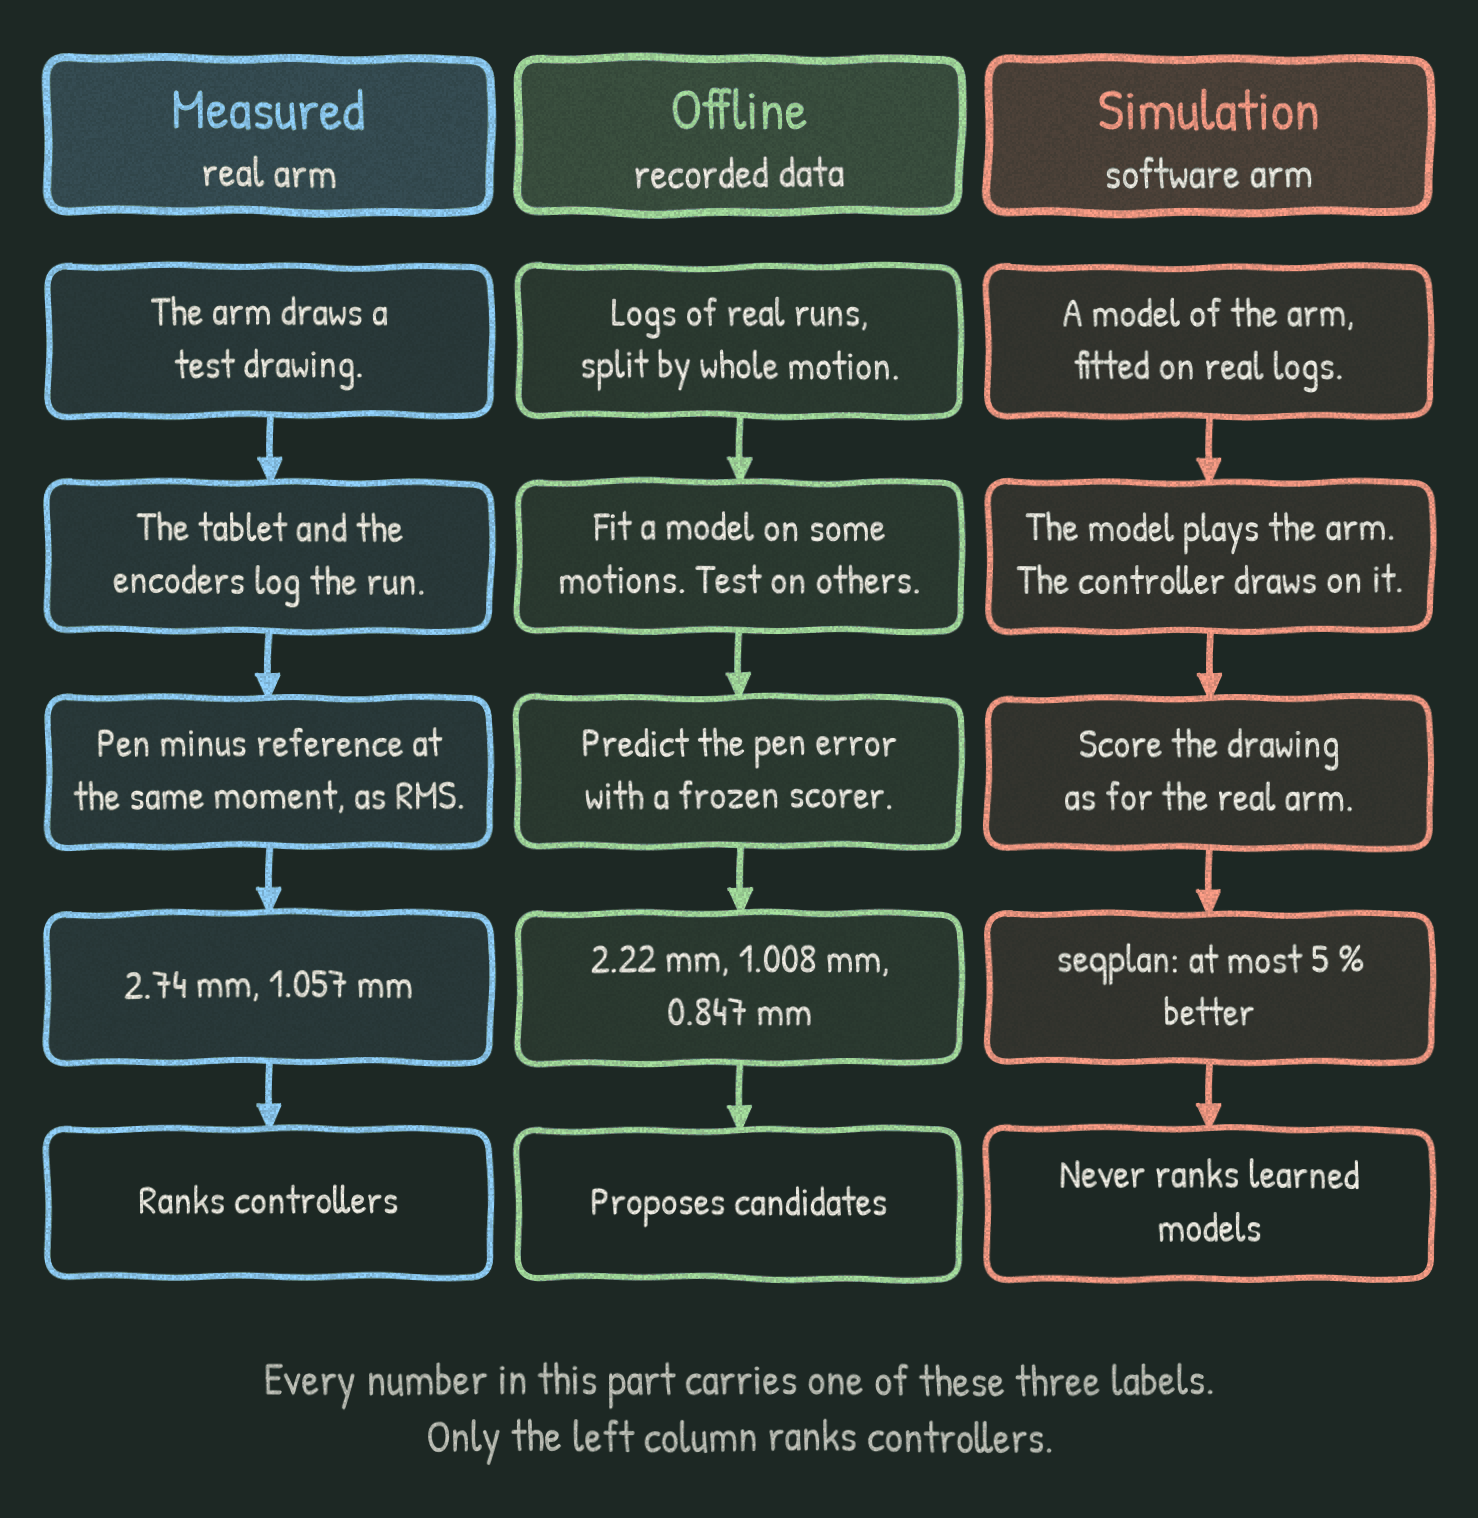
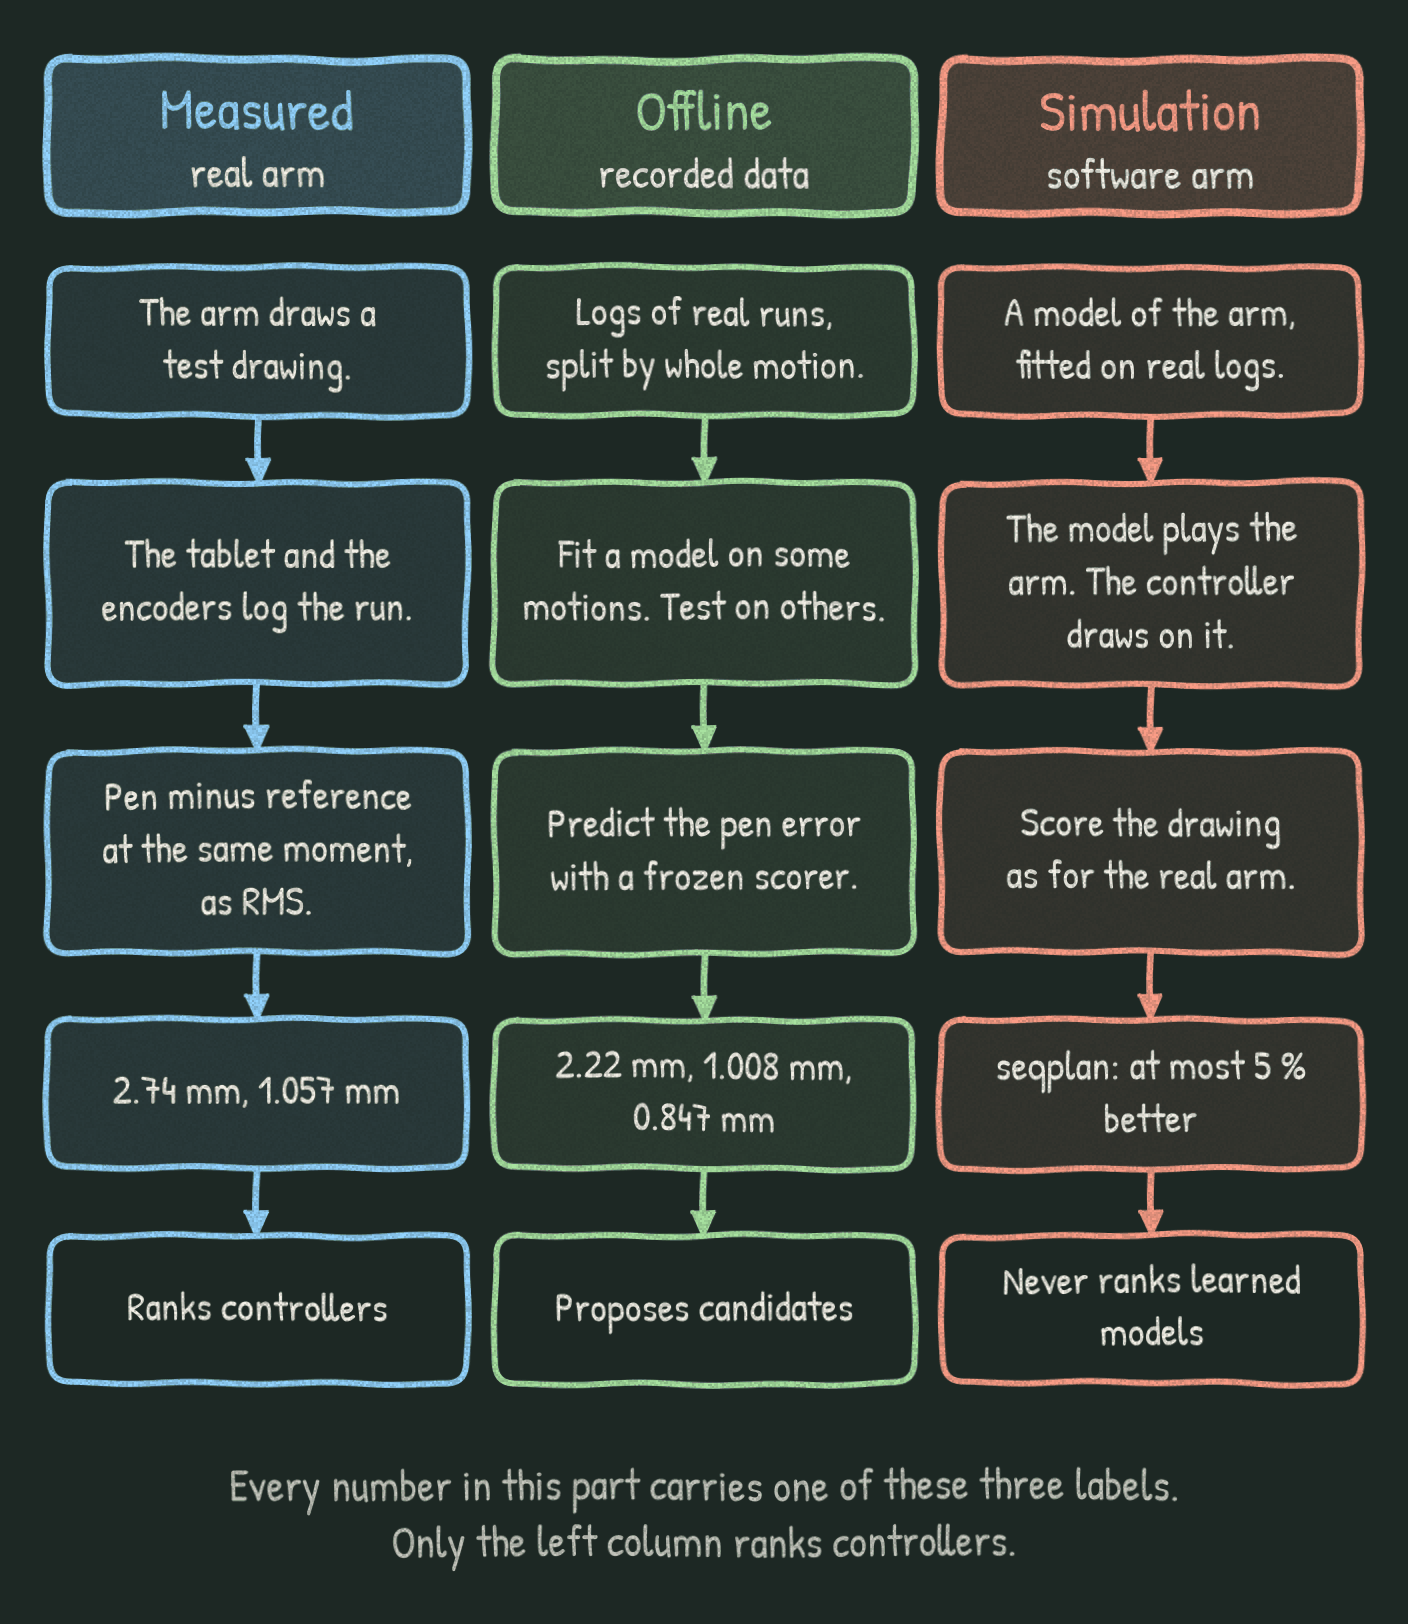
Fix overlaps and small text in seven part 6 figures
From the independent check: bar labels clear the axis line, the group
headings read as headings again, the pan axis no longer crosses its label,
the Kalman subscripts are larger, and the four diagrams are 6.4 in wide so
their text keeps its size on a phone.

Changed region(s): [[0.0312, 0.031, 1.0, 0.8669], [0.1562, 0.8979, 0.8438, 0.9598]]

diff --git a/scripts/so101_controllers_figures.py b/scripts/so101_controllers_figures.py
@@ -156,6 +156,11 @@ def wrap(text, size, width_in):
     return lines
 
 
+# Board width for the diagrams. chalk.save() crops to the board and adds a 0.16 in margin on each side, so a 6.08 in
+# board gives a 6.4 in (1408 px) image.
+BOARD_W = 6.08
+
+
 class Board:
     """A figure with one axes in points: x to the right, y down, (0, 0) at the top left."""
 
@@ -650,15 +655,20 @@ def fig_nib_error_vs_speed(src):
 # Value charts (redraw). Every value comes from figs.py of the light figures.
 
 
-def bar_rows(ax, rows, xmax, value_pad, label_size=14.5, value_size=14.5, header_size=15.0):
-    """Horizontal bars with the label above each bar. rows: (label, value, color, value text) or (header, None, ...)."""
+def bar_rows(ax, rows, xmax, value_pad, label_size=14.5, value_size=14.5, header_size=16.5):
+    """Horizontal bars with the label above each bar. rows: (label, value, color, value text) or (header, None, ...).
+
+    A group header was bold in figs.py. The hand font has no bold, so a header is yellow and larger than a label.
+    Labels and headers start 6 pt right of the axis line."""
     y = 0.0
     for name, v, col, txt in rows:
         if v is None:
-            ax.text(0.0, y + 0.35, name, ha="left", va="baseline", fontsize=header_size, color=C_INK)
+            ax.annotate(name, (0.0, y + 0.35), xytext=(6, 0), textcoords="offset points", ha="left", va="baseline",
+                        fontsize=header_size, color=chalk.YELLOW)
             y += 0.85
             continue
-        ax.text(xmax * 0.004, y + 0.28, name, ha="left", va="baseline", fontsize=label_size, color=C_INK2)
+        ax.annotate(name, (0.0, y + 0.28), xytext=(6, 0), textcoords="offset points", ha="left", va="baseline",
+                    fontsize=label_size, color=C_INK2)
         ax.barh(y + 0.62, v, color=col, height=0.5)
         ax.text(v + value_pad, y + 0.62, txt, va="center", fontsize=value_size, color=C_INK)
         y += 1.18
@@ -759,7 +769,7 @@ def fig_arm_pan_lever():
         a.add_patch(Circle(p, 12, fc=chalk.BOARD, ec=c, lw=3))
     a.annotate("", xy=(15, 95), xytext=(333, 95), arrowprops=dict(arrowstyle="<->", color=C_ORANGE, lw=2))
     a.text(178, 66, "R: pan axis to pen", color=C_ORANGE, ha="center", fontsize=14)
-    a.plot([15, 15], [-5, 430], color=C_ORANGE, lw=1.6, ls="--")
+    a.plot([15, 15], [-5, 408], color=C_ORANGE, lw=1.6, ls="--")   # armfig.py: to 430; stopped under the words
     a.annotate("", xy=(60, 400), xytext=(-30, 400),
                arrowprops=dict(arrowstyle="->", color=C_ORANGE, lw=2.5, connectionstyle="arc3,rad=-0.4"))
     a.text(15, 418, "shoulder pan:\nturns the whole arm\nabout a vertical axis", color=C_ORANGE, ha="center", va="bottom", fontsize=16)
@@ -798,9 +808,9 @@ def fig_arm_pan_lever():
 
 def fig_system():
     """sysdiagram.py. Same boxes, arrows and words; text sizes for a phone."""
-    B = Board()
-    L, LW = 38.0, 228.0            # main column
-    RX, RW = 292.0, 132.0          # right column
+    B = Board(width_in=BOARD_W)
+    L, LW = 42.0, 210.0            # main column
+    RX, RW = 274.0, 134.0          # right column
     GAP = 26.0
     ref = B.box(L, 12, LW, "Reference drawing", ["a path in tablet millimeters"], C_BLUE)
     ik = B.box(L, ref["bottom"] + GAP, LW, "Inverse kinematics", ["joint path q*(t) for the five joints"], C_BLUE)
@@ -854,9 +864,9 @@ def fig_system():
 
 def fig_head_schematic():
     """headdiagram.py."""
-    B = Board()
-    L, LW = 38.0, 232.0
-    RX, RW = 300.0, 152.0
+    B = Board(width_in=BOARD_W)
+    L, LW = 38.0, 220.0
+    RX, RW = 282.0, 148.0
     p1 = B.box(L, 12, LW, "Planned joint path q*(t)", ["from the drawing, five joints"], C_BLUE)
     feat = B.box(L, p1["bottom"] + 30, LW, "Features of the path",
                  ["for each joint: sin, cos, angle,", "speed, acceleration, saturated speed", "30 numbers + 1 constant"], C_BLUE)
@@ -888,7 +898,7 @@ def fig_head_schematic():
 
 def fig_numbers():
     """provdiagram.py: three columns, one for each label of a number."""
-    B = Board()
+    B = Board(width_in=BOARD_W)
     # The line breaks of provdiagram.py; a line that is too wide for a phone column is wrapped again.
     cols = [("Measured", "real arm", C_BLUE,
              [["The arm draws a", "test drawing."], ["The tablet and the", "encoders log the run."],
@@ -908,8 +918,24 @@ def fig_numbers():
         B.text(x + cw / 2, 31, name, 19, col, ha="center")
         B.text(x + cw / 2, 50, sub, 14, C_INK, ha="center")
     y = 76.0
+    def cell_lines(lines, width):
+        """The provdiagram.py line breaks if every line fits. Else the cell text wrapped again with even line lengths
+        (the narrowest width that keeps the same number of lines), so no word is left alone on a line."""
+        if all(B.width(line, size) <= width for line in lines):
+            return lines
+        text = " ".join(lines)
+        best = B.wrap(text, size, width)
+        w = width
+        while w > 40:
+            w -= 2
+            trial = B.wrap(text, size, w)
+            if len(trial) > len(best):
+                break
+            best = trial
+        return best
+
     for r in range(5):
-        wrapped = [sum((B.wrap(line, size, cw - 2 * pad) for line in c[3][r]), []) for c in cols]
+        wrapped = [cell_lines(c[3][r], cw - 2 * pad) for c in cols]
         n = max(len(w) for w in wrapped)
         h = 2 * pad + n * size * 1.28 + 4
         for x, (name, sub, col, _), lines in zip(xs, cols, wrapped):
@@ -926,20 +952,34 @@ def fig_numbers():
 
 def fig_kalman_intuition():
     """kalman.html: the shape of the update, the RLS head and the EKF, with the same color for each role."""
-    B = Board()
+    B = Board(width_in=BOARD_W)
     X0, X1 = 6.0, B.W - 6.0
     eq_size, body = 21.0, 14.5
     blue, gray, org, grn, pur, ink = C_BLUE, C_INK2, C_ORANGE, C_AQUA, C_PURPLE, C_INK
+    # Subscript words (new, old, encoder, model) are plain text at 0.8 of the equation size, larger than the mathtext
+    # subscripts (0.7), so that they are at least as large as the body text on a phone.
+    sub_scale, sub_drop = 0.8, 0.26
+
+    def sub_kern(word):
+        """Gap (pt) before a subscript word. The hand-font "n" has a wide left side, so "new" starts closer."""
+        return -0.3 if word.startswith("n") else 1.0
 
     def row(segs, y, size=eq_size, center=True):
-        """One equation line of colored segments. A segment is (mathtext, color) or ("frac", num, den)."""
+        """One equation line of colored segments: (mathtext, color, gap), ("sub", mathtext, subscript, color, gap)
+        or ("frac", num, den, gap)."""
         def seg_w(s):
             if s[0] == "frac":
                 return max(sum(B.width(t, size) for t, _ in s[1]), sum(B.width(t, size) for t, _ in s[2])) + 6
+            if s[0] == "sub":
+                return B.width(s[1], size) + sub_kern(s[2]) + B.width(s[2], size * sub_scale)
             return B.width(s[0], size)
 
+        def seg_gap(s):
+            n = {"frac": 3, "sub": 4}.get(s[0], 2)
+            return s[n] if len(s) > n else 0.0
+
         widths = [seg_w(s) for s in segs]
-        gaps = [(s[3] if len(s) > 3 else 0.0) if s[0] == "frac" else (s[2] if len(s) > 2 else 0.0) for s in segs]
+        gaps = [seg_gap(s) for s in segs]
         total = sum(widths) + sum(gaps)
         x = (X0 + X1 - total) / 2 if center else X0 + 14
         placed = []
@@ -957,6 +997,9 @@ def fig_kalman_intuition():
                 for t, c in s[2]:
                     B.text(xx, yb + size * 1.0, t, size, c)
                     xx += B.width(t, size)
+            elif s[0] == "sub":
+                B.text(x, y, s[1], size, s[3])
+                B.text(x + B.width(s[1], size) + sub_kern(s[2]), y + size * sub_drop, s[2], size * sub_scale, s[3])
             else:
                 B.text(x, y, s[0], size, s[1])
             placed.append((x, x + w))
@@ -978,13 +1021,13 @@ def fig_kalman_intuition():
 
     def card1(y):
         yb = y + 34
-        segs = [(r"$\hat{x}_{\mathrm{new}}$", blue, 16), (r"$=$", ink, 16), (r"$\hat{x}_{\mathrm{old}}$", gray, 16),
+        segs = [("sub", r"$\hat{x}$", "new", blue, 16), (r"$=$", ink, 16), ("sub", r"$\hat{x}$", "old", gray, 16),
                 (r"$+$", ink, 16), (r"$K$", org, 22), (r"$(y-\hat{y})$", grn)]
         placed = row(segs, yb)
         for (x0, x1), lab in zip([placed[0], placed[2], placed[4], placed[5]], ["new belief", "old belief", "gain", "surprise"]):
-            brace(B.ax, x0 - 2, x1 + 2, yb + 9, 9, ink)
-            B.text((x0 + x1) / 2, yb + 37, lab, 15, ink, ha="center")
-        y = yb + 50
+            brace(B.ax, x0 - 2, x1 + 2, yb + 12, 9, ink)
+            B.text((x0 + x1) / 2, yb + 40, lab, 15, ink, ha="center")
+        y = yb + 53
         y = B.rich(X0 + 12, y, X1 - X0 - 24, [("new belief", blue), (": my estimate after the reading. ", ink), ("old belief", gray),
                                               (": my estimate before it. ", ink), ("surprise", grn), (": the reading minus what I predicted. ", ink),
                                               ("gain K", org), (": how much I trust the reading. For one number it runs from 0 (ignore it) "
@@ -1008,12 +1051,12 @@ def fig_kalman_intuition():
         y = B.rich(X0 + 12, yb + 30, X1 - X0 - 24, [("Gain.", org), (" Big when the head is unsure (large ", ink), ("P", pur),
                                                      (") and the feature φ is active. Small when it is sure.", ink)], body)
         yb = y + 32
-        row([(r"$W_{\mathrm{new}}$", blue, 8), (r"$=$", ink, 8), (r"$W_{\mathrm{old}}$", gray, 8), (r"$+$", ink, 8),
+        row([("sub", r"$W$", "new", blue, 8), (r"$=$", ink, 8), ("sub", r"$W$", "old", gray, 8), (r"$+$", ink, 8),
              (r"$(y-W\phi)$", grn, 5), (r"$K^{\top}$", org)], yb)
-        y = B.rich(X0 + 12, yb + 12, X1 - X0 - 24, [("Weights", blue), (" move by ", ink), ("gain", org), (" × ", ink), ("surprise", grn),
+        y = B.rich(X0 + 12, yb + 16, X1 - X0 - 24, [("Weights", blue), (" move by ", ink), ("gain", org), (" × ", ink), ("surprise", grn),
                                                      (", where the surprise is the label y minus what the head predicted.", ink)], body)
         yb = y + 40
-        row([(r"$P_{\mathrm{new}}$", pur, 8), (r"$=$", ink, 8), ("frac", [(r"$1$", ink)], [(r"$\lambda$", ink)], 4),
+        row([("sub", r"$P$", "new", pur, 8), (r"$=$", ink, 8), ("frac", [(r"$1$", ink)], [(r"$\lambda$", ink)], 4),
              (r"$($", ink, 1), (r"$P$", pur, 4), (r"$-$", ink, 4), (r"$K$", org, 3), (r"$\phi^{\top}$", ink, 2), (r"$P$", pur, 1),
              (r"$)$", ink)], yb)
         y = B.rich(X0 + 12, yb + 30, X1 - X0 - 24, [("Uncertainty", pur), (" shrinks after every reading. A forgetting factor λ below 1 "
@@ -1024,9 +1067,10 @@ def fig_kalman_intuition():
 
     def card3(y):
         yb = y + 30
-        row([(r"$\hat{d}_{\mathrm{new}}$", blue, 7), (r"$=$", ink, 7), (r"$\hat{d}_{\mathrm{old}}$", gray, 7), (r"$+$", ink, 7),
-             (r"$K$", org, 4), (r"$(q_{\mathrm{encoder}}-\hat{q}{}_{\mathrm{model}})$", grn)], yb, size=19)
-        y = B.rich(X0 + 12, yb + 14, X1 - X0 - 24, [("The state holds each joint's speed and a missing torque d. The ", ink), ("surprise", grn),
+        row([("sub", r"$\hat{d}$", "new", blue, 7), (r"$=$", ink, 7), ("sub", r"$\hat{d}$", "old", gray, 7), (r"$+$", ink, 7),
+             (r"$K$", org, 4), (r"$($", grn, 1), ("sub", r"$q$", "encoder", grn, 4), (r"$-$", grn, 4),
+             ("sub", r"$\hat{q}$", "model", grn, 1), (r"$)$", grn)], yb, size=19)
+        y = B.rich(X0 + 12, yb + 18, X1 - X0 - 24, [("The state holds each joint's speed and a missing torque d. The ", ink), ("surprise", grn),
                                                      (" is the encoder reading minus the model's prediction. If the arm lags more than "
                                                       "the model says, the missing torque estimate grows.", ink)], body)
         return y
